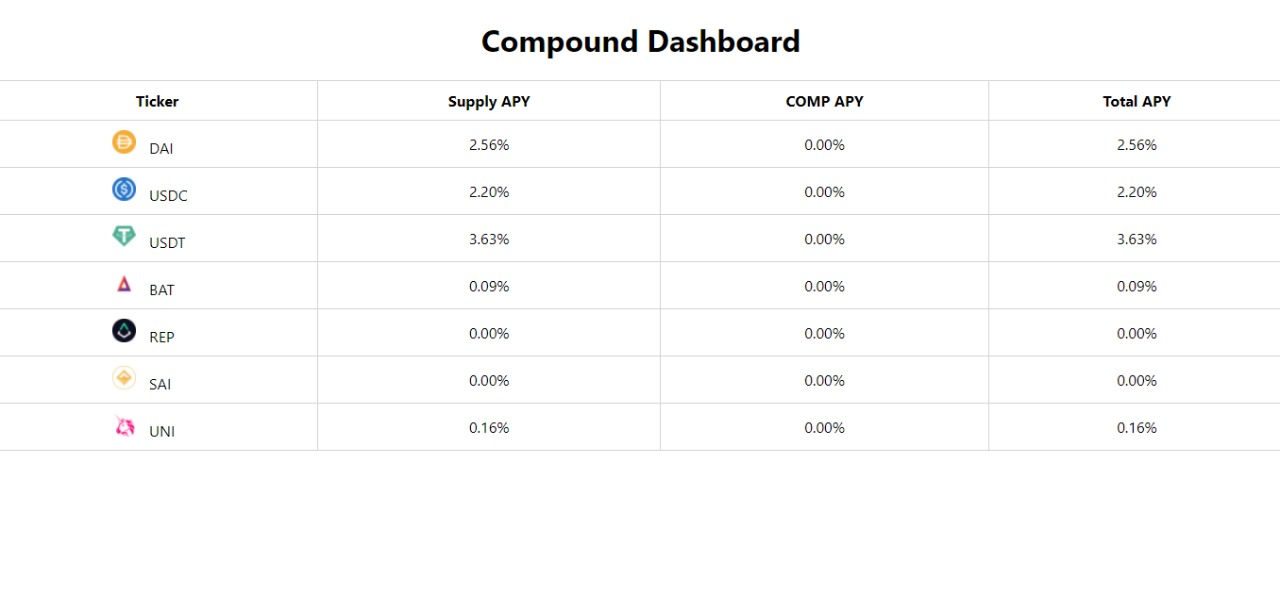
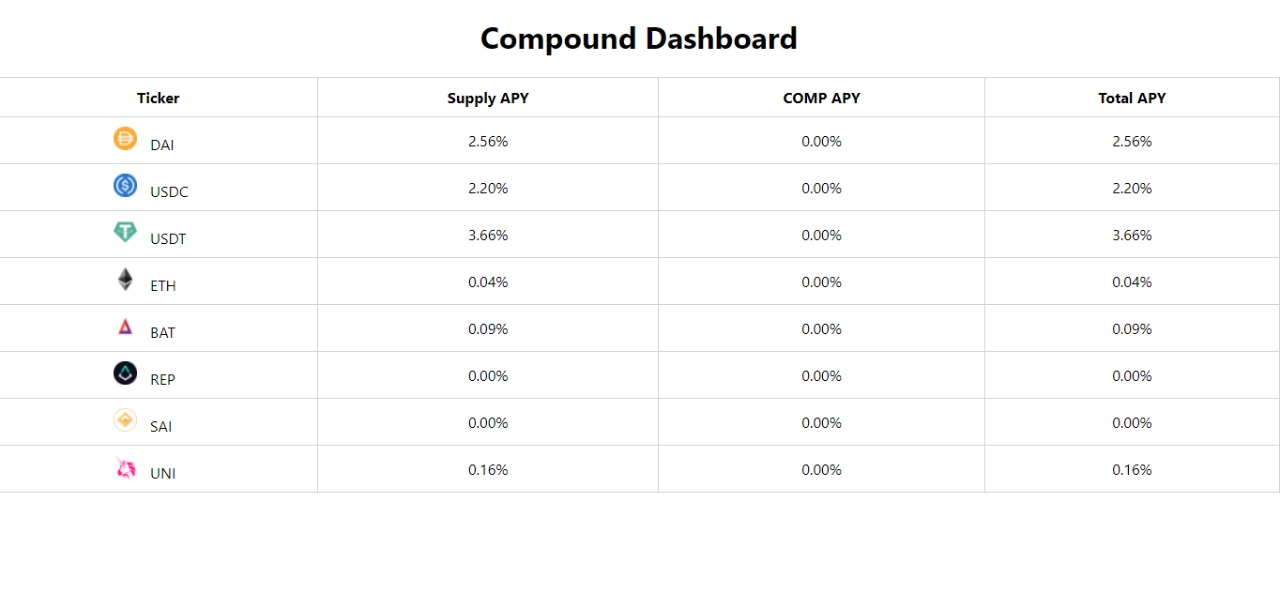
eth token added

diff --git a/src/App.js b/src/App.js
@@ -19,7 +19,7 @@ function App() {
           calculateApy(Compound.cDAI, 'DAI'),
           calculateApy(Compound.cUSDC, 'USDC'),
           calculateApy(Compound.cUSDT, 'USDT'),
-         // calculateApy(Compound.cAAVE, 'AAVE'),
+          calculateApy(Compound.cETH, 'ETH'),
            calculateApy(Compound.cBAT, 'BAT'),
           // calculateApy(Compound.cFEI, 'FEI'),
           // calculateApy(Compound.cLINK, 'LINK'),
